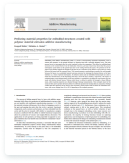
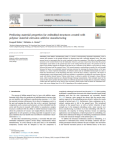
Add files via upload

diff --git a/index.html b/index.html
@@ -68,7 +68,7 @@
             
             <div class="Swapnil-description">I am a researcher in the field of Design for Additive Manufacturing (3D Printing). I work on experimental, and computational modelling of the 3D printing process to predict part strength. I teach heat transfer laboratory course to seniors in Mechanical Engineering department at Penn State. I also hold a Masters in Engineering Design – Product Design track from Penn State.</div>
             
-            <div class="button-row"><a class="Resume" href="Swapnil_CV.pdf" target="_blank"><p>RESUME</p></a></div>
+            <div class="button-row"><a class="Resume" href="Swapnil_CV.pdf" target="_blank" type="application/pdf"><p>RESUME</p></a></div>
         </div>
         </div>
         </header>
@@ -150,6 +150,7 @@
         
         
         <div class="Journal-Paper1">
+            <a class="Pub1" href="https://www.sciencedirect.com/science/article/pii/S2214860420306199" target="_blank">
         <div class="JPapersBox">
             <div class="specJ1">
             <img class="ThumbJournal" src="PubOne.png" alt="">
@@ -166,9 +167,11 @@
             </div>
             </div>
         </div>
+            </a>
         </div>
             
         <div class="Journal-Paper2">
+            <a class="Pub2" href="https://www.mdpi.com/2411-9660/4/3/39" target="_blank">
         <div class="JPapersBox">
             <img class="ThumbJournal" src="PubTwo.png" alt="">
             <div class="content">
@@ -183,9 +186,11 @@
                 <h3 class="Year">2020</h3>
             </div>
         </div>
+            </a>
         </div>
             
         <div class="Journal-Paper3">
+            <a class="Pub3" href="https://asmedigitalcollection.asme.org/mechanicaldesign/article/142/11/114501/1082606/Digital-Design-Automation-to-Support-In-Situ" target="_blank">
         <div class="JPapersBox">
             <img class="ThumbJournal" src="PubThree.png" alt="">
             <div class="content">
@@ -200,9 +205,11 @@
                 <h3 class="Year">2020</h3>
             </div>
         </div>
+            </a>
         </div>
             
         <div class="Journal-Paper4">
+            <a class="Pub4" href="" target="_blank">
         <div class="JPapersBox">
             <img class="ThumbJournal" src="PubFour.png" alt="">
             <div class="content">
@@ -217,9 +224,11 @@
                 <h3 class="Year">2020</h3>
             </div>
         </div>
+            </a>
         </div>
             
         <div class="Journal-Paper5">
+            <a class="Pub5" href="https://www.ijee.ie/latestissues/Vol36-4/25_ijee3961.pdf" target="_blank">
         <div class="JPapersBox">
             <img class="ThumbJournal" src="PubFive.png" alt="">
             <div class="content">
@@ -234,9 +243,11 @@
             <h3 class="Year">2020</h3>
             </div>
         </div>
+            </a>
         </div>
             
         <div class="Journal-Paper6">
+            <a class="Pub6" href="https://www.emerald.com/insight/content/doi/10.1108/RPJ-05-2017-0091/full/html" target="_blank">
         <div class="JPapersBox">
             <img class="ThumbJournal" src="PubSix.png" alt="">
             <div class="content">
@@ -251,6 +262,7 @@
             <h3 class="Year">2018</h3>
             </div>
         </div>
+            </a>
         </div>
         
         </div>
@@ -266,6 +278,7 @@
     <div class="border"></div>
     <div class="ConfCombined">
         <div class="Cpublication">
+            <a class="Con1" href="http://utw10945.utweb.utexas.edu/sites/default/files/2019/148%20Impact%20of%20Embedding%20Cavity%20Design%20on%20Thermal%20Histo.pdf" target="_blank">
         <div class="Con1">
             <div class="border"></div>
             <div class="contents">
@@ -289,8 +302,10 @@
                 </div>
             </div>
         </div>
+            </a>
         </div>
-            <div class="Cpublication">
+        <div class="Cpublication">
+            <a class="Con2" href="" target="_blank">
         <div class="Con2">
             <div class="border"></div>
             <div class="contents">
@@ -314,8 +329,10 @@
                 </div>
             </div>
         </div>
+            </a>
         </div>
             <div class="Cpublication">
+                <a class="Con3" href="http://utw10945.utweb.utexas.edu/sites/default/files/2018/125%20QuantifyingtheEffectofEmbeddedComponentOrien.pdf" target="_blank">
         <div class="Con3">
             <div class="border"></div>
             <div class="contents">
@@ -339,8 +356,10 @@
                 </div>
             </div>
         </div>
+                </a>
         </div>
             <div class="Cpublication">
+                <a class="Con4" href="http://utw10945.utweb.utexas.edu/sites/default/files/2017/Manuscripts/DesignandPreliminaryEvaluationofaDeployable.pdf" target="_blank">
         <div class="Con4">
             <div class="border"></div>
             <div class="contents">
@@ -364,8 +383,10 @@
                 </div>
             </div>
         </div>
+                </a>
         </div>
             <div class="Cpublication">
+                <a class="Con5" href="https://asmedigitalcollection.asme.org/IDETC-CIE/proceedings/IDETC-CIE2017/58158/V003T04A014/259039" target="_blank">
         <div class="Con5">
             <div class="border"></div>
             <div class="contents">
@@ -389,8 +410,10 @@
                 </div>
             </div>
         </div>
+                </a>
         </div>
             <div class="Cpublication">
+                <a class="Con6" href="http://utw10945.utweb.utexas.edu/sites/default/files/2016/068-Sinha.pdf" target="_blank">
         <div class="Con6">
             <div class="border"></div>
             <div class="contents">
@@ -414,6 +437,7 @@
                 </div>
             </div>
         </div>
+                </a>
         </div>
     </div>
     </div>

diff --git a/Style.css b/Style.css
@@ -497,7 +497,9 @@ color: #37393E;
 font-size: 16px;
     letter-spacing: 0.05em;
 color: #707B86;
-
+}
+.Journal-Publications a {
+    text-decoration: none;
 }
 
 .Journal-Publications .JPapersBox{
@@ -507,6 +509,8 @@ color: #707B86;
     height: 370px;
     border-top: 4px solid #37393E;
 }
+
+
 
 .Journal-Publications .Journal-Papers {
     display: grid;
@@ -518,12 +522,10 @@ color: #707B86;
 
 
 .Journal-Publications .ThumbJournal {
-    
     padding-top: 23px;
     padding-left: 119px;
     padding-bottom: 0;
-    
-   
+    filter: drop-shadow(0px 0px 2px rgba(104, 128, 165, 0.15));
 }
 
 .Journal-Publications .content {
@@ -564,12 +566,20 @@ color: #707B86;
     }
 }
 
+.Journal-Publications .JPapersBox:hover {
+    box-shadow: 0px 4px 7px 2px rgba(58, 95, 129, 0.1);
+}
+
 /*##### CONFERENCE #####*/
 
 
 .wrapperA {
     max-width: 1208px;
     margin: 0 auto;
+}
+
+.ConfCombined a {
+    text-decoration: none;
 }
 
 .ConfCombined .Cpublication {
@@ -583,7 +593,7 @@ color: #707B86;
 }
 
 .ConfCombined .image {
-    filter: drop-shadow(1px 2px 6px rgba(88, 118, 122, 0.25));
+    filter: drop-shadow(0px 0px 2px rgba(104, 128, 165, 0.15));
     padding-left: 15px;
     padding-right: 20px;
     padding-top: 10px;
@@ -646,6 +656,10 @@ color: #37393E;
     .ConfCombined .journal {
     padding-top: 5px;
     }
+}
+
+.ConfCombined .Cpublication:hover {
+    box-shadow: 0px 4px 7px 2px rgba(58, 95, 129, 0.1);
 }
 
 /*##### EDUCATION #####*/
